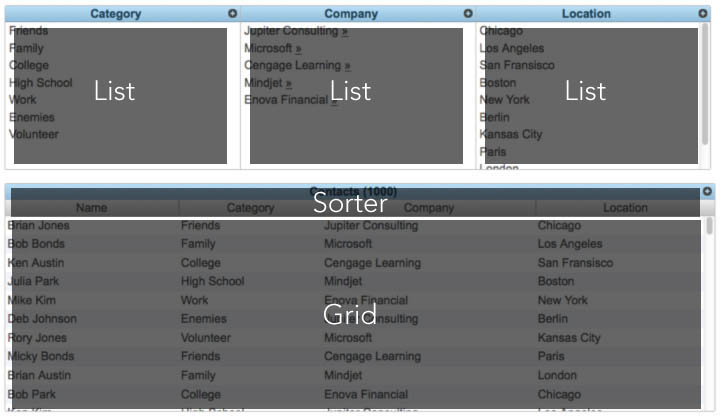
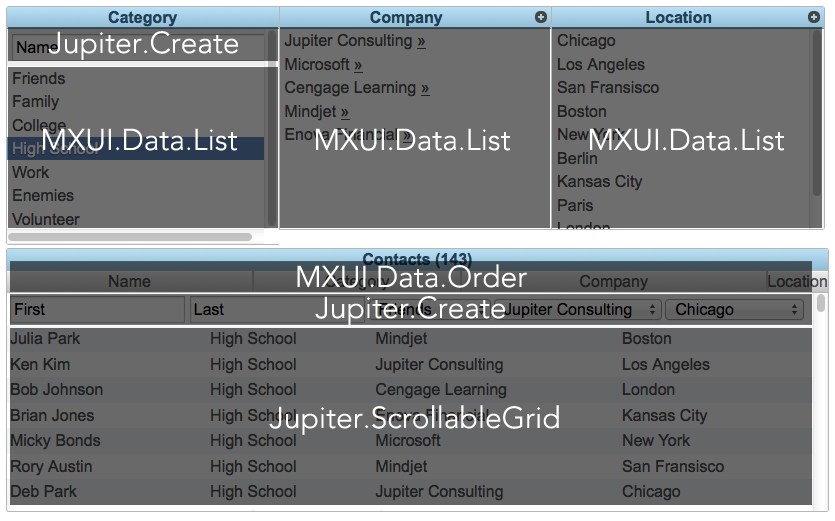
updated images for contacts, added more links for contacts back to jmvc docs

diff --git a/tutorials/contacts/designing.md b/tutorials/contacts/designing.md
@@ -31,7 +31,7 @@ When initialized, you pass the List a [jQuery.model model] class.  JavaScriptMVC
 
 	this.options.model.findAll(this.options.params, this.callback('list'))
 
-If you look at the models in _contacts/models_, you'll notice findAll is missing. By default, models will request data using REST standards, as described in [jquery.model.encapsulate Service Encapsulation]. Every model has a findAll method, implemented in the based jQuery.Model class.
+If you look at the models in _contacts/models_, you'll notice findAll is missing. By default, models will request data using REST standards, as described in [jquery.model.encapsulate Service Encapsulation]. Every model has a findAll method, implemented in the based [jquery.model jQuery.Model] class.
 
 ### Drawing the List
 
@@ -53,7 +53,7 @@ In a live application, data changes.  The List should be aware of these changes 
     	}
 	},
 
-In the _Gluing Modules Together_ section, we will discuss using this type of observer architecture.
+In the [contacts.glue Gluing Modules Together] section, we will discuss using this type of observer architecture.
 
 ### Responding to Clicks
 
@@ -77,7 +77,7 @@ As items are clicked in the list, a "selected" visual state is applied to the it
 		el.trigger("activate", el.model());
 	}
 	
-In the above code, we  trigger an _activate_ event.  This event is one of List's outputs.  As opposed to applications listening for "click" events, we use activate to provide a level of abstraction.  This allows the widget to provide other ways to activate a row, such as keyboard navigation or clicking.  We could even expand this widget to use touch events for mobile devices, and applications wouldn't have to change.  For more information on this you can read the [mvc.controller Controller] documentation. 
+In the above code, we  trigger an _activate_ event.  This event is one of List's outputs that we listen to using [jquery.controller.listening event delegation].  As opposed to applications listening for "click" events, we use activate to provide a level of abstraction.  This allows the widget to provide other ways to activate a row, such as keyboard navigation or clicking.  We could even expand this widget to use touch events for mobile devices, and applications wouldn't have to change.  For more information on this you can read the [mvc.controller Controller] documentation. 
 
 The mission of this widget was simple: create a list of data that updates itself as the items change.  You and I have probably written this a dozen times in our applications.  This List widget provides a reusable API because it has generic and well defined inputs and outputs.
 

diff --git a/tutorials/contacts/glue.md b/tutorials/contacts/glue.md
@@ -32,7 +32,7 @@ As items are clicked in the list, it triggers an "activate" event, including the
 
 	el.trigger("activate", el.model());
 
-_Pro Tip:  Because we bound instances of models using EJS as shown below, in our controller code we can call .model() on the element that was bound to retrieve the model as shown above._
+_Pro Tip:  Because we bound [jquery.fn.model instances of models using EJS] as shown below, in our controller code we can call .model() on the element that was bound to retrieve the model as shown above._
 
 	<% for(var i =0 ; i < items.length;i ++){ %>
   		<li <%= items[i]%> >
@@ -50,7 +50,7 @@ The contacts widget listens for events high in the DOM, so it can capture any ev
 
 Grid parameters are a JavaScriptMVC Model instance, used to define common data attributes like limit, offset, and count.  The JavascriptMVC Model implements an observer pattern. As changes are made to attributes, widgets can listen for the _updated_ event and react accordingly.
 
-In the sample code above we call _attr_ on this model instance to update the parameters.  The grid is listening for changes in the attributes.  Above, when activate is triggered, _categoryId_ is changed.  The grid observes this change and executes an AJAX request to get data for the current parameter set. 
+In the sample code above we call [jquery.model.prototype.attr attr] on this model instance to update the parameters.  The grid is listening for changes in the attributes.  Above, when activate is triggered, _categoryId_ is changed.  The grid observes this change and executes an AJAX request to get data for the current parameter set. 
 
 	"{params} updated.attr" : function(params, ev, attr, val){
 		if(attr !== 'count'){
@@ -94,7 +94,7 @@ The List widget provides a good example of binding directly to model updates.
     	}
 	}
 
-As model changes are made, such as an update to a contact's name, we listen for these changes in the List and update the UI accordingly.
+As model changes are made, such as an update to a contact's name, we listen for these changes in the List and update the UI accordingly using [jquery.model.events model events].
 
 ## Wrap-up
 

diff --git a/tutorials/contacts/contacts.md b/tutorials/contacts/contacts.md
@@ -17,7 +17,7 @@ Using techniques we will cover in this tutorial, you will learn how to build an 
 
 ## Setup
 
-The application source is hosted by [GitHub](https://github.com/jupiterjs/contacts). You can either download the application using GetJS
+The application source is hosted by [GitHub](https://github.com/jupiterjs/contacts). You can either download the application using [steal.get GetJS]
 	
 	./js steal/getjs contacts
 
@@ -44,9 +44,9 @@ Once you get the application from GitHub you should have structure similar to be
     		qunit.html
     		contacts.css
     		contacts.js
-			contacts.html
     		...
+		contacts.html
 
-To run the application, open _contacts/contacts.html_ with your browser.  We will be using [jQuery.fixture fixtures] to simulate the AJAX requests so running it from a server isn’t necessary ([googlefilesystem unless you're using chrome]).
+To run the application, open _contacts.html_ with your browser.  We will be using [jQuery.fixture fixtures] to simulate the AJAX requests so running it from a server isn’t necessary.
 
 Once the application is displayed in your browser, continue to [contacts.dc Divide and Conquer] to learn how we split up the application.

diff --git a/tutorials/contacts/dc.md b/tutorials/contacts/dc.md
@@ -76,7 +76,7 @@ The contacts widget listens for events using event delegation and communicates w
 		this.params.attr("categoryId", null);
 	}
 
-In the _Gluing Modules Together_ section, we will touch more on the pattern used to facilitate this cross-widget communication.
+In the [contacts.glue Gluing Modules Together] section, we will touch more on the pattern used to facilitate this cross-widget communication.
 
 Additionally in the contacts folder, you will find the building blocks of any JavascriptMVC application: models for communication with the server, fixtures for simulating AJAX responses from the server, and functional tests for testing the application.
 
